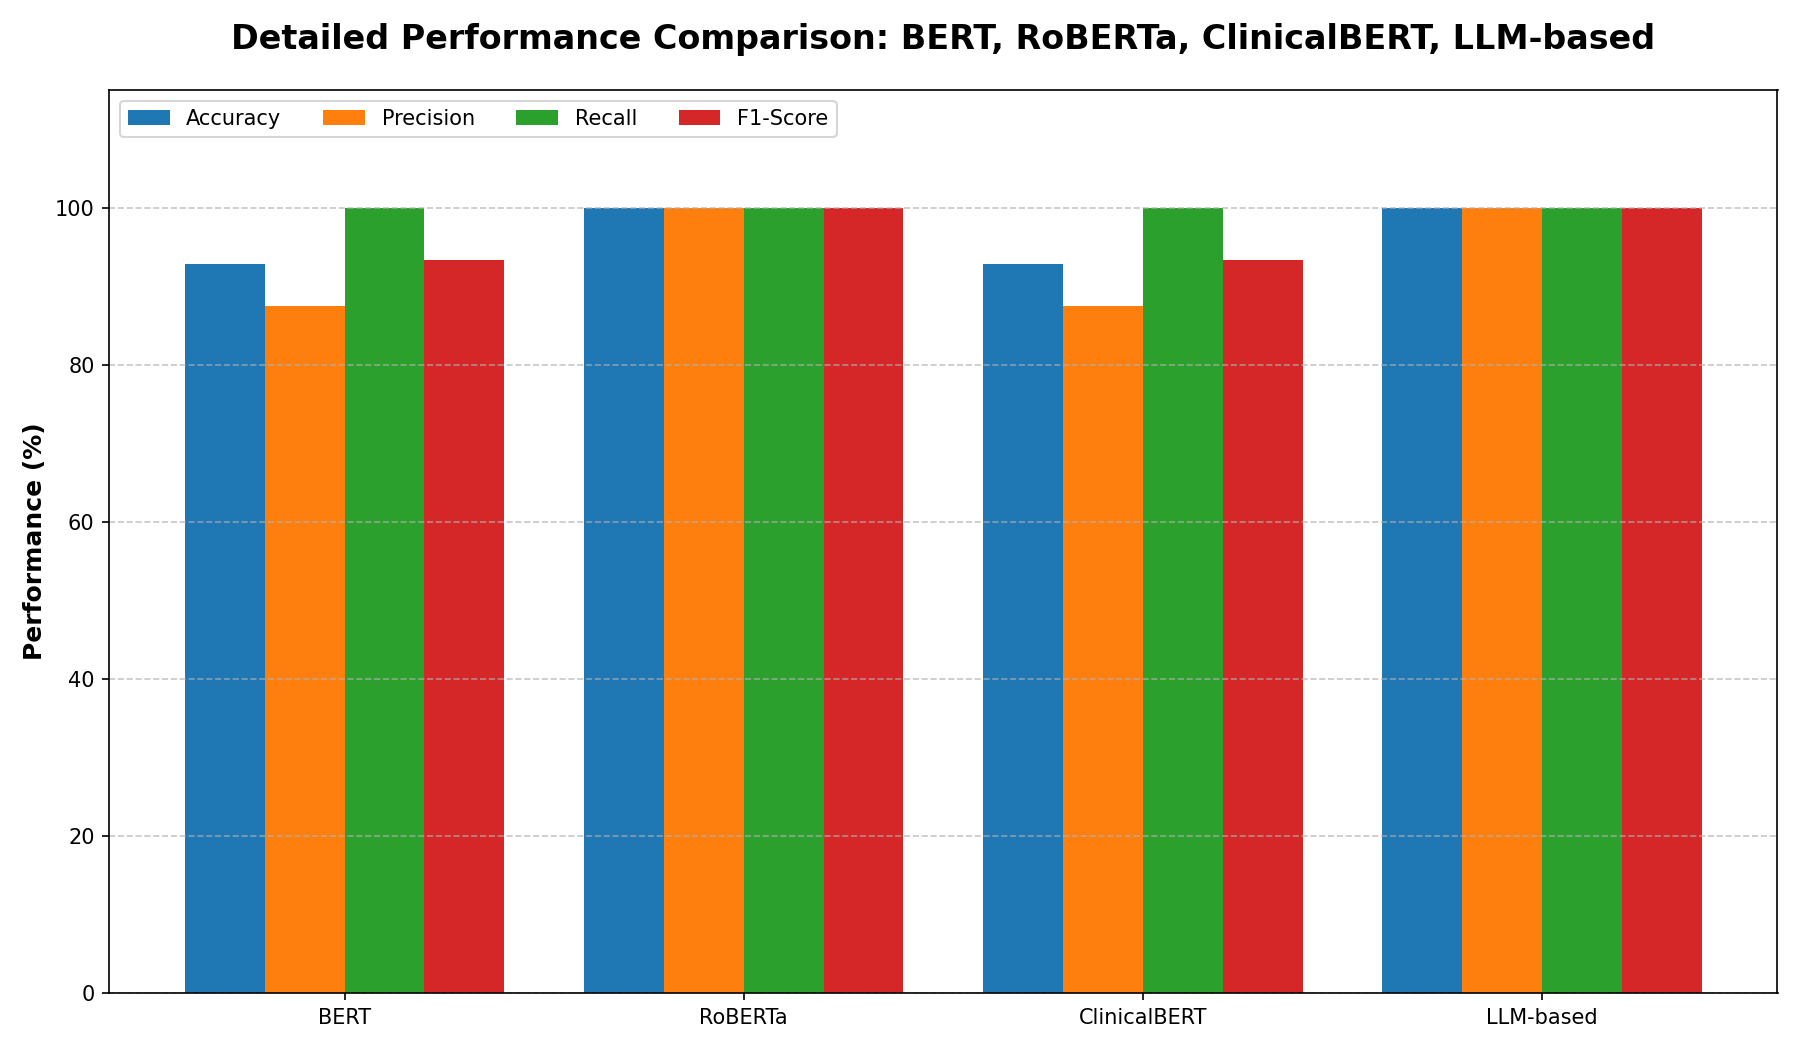
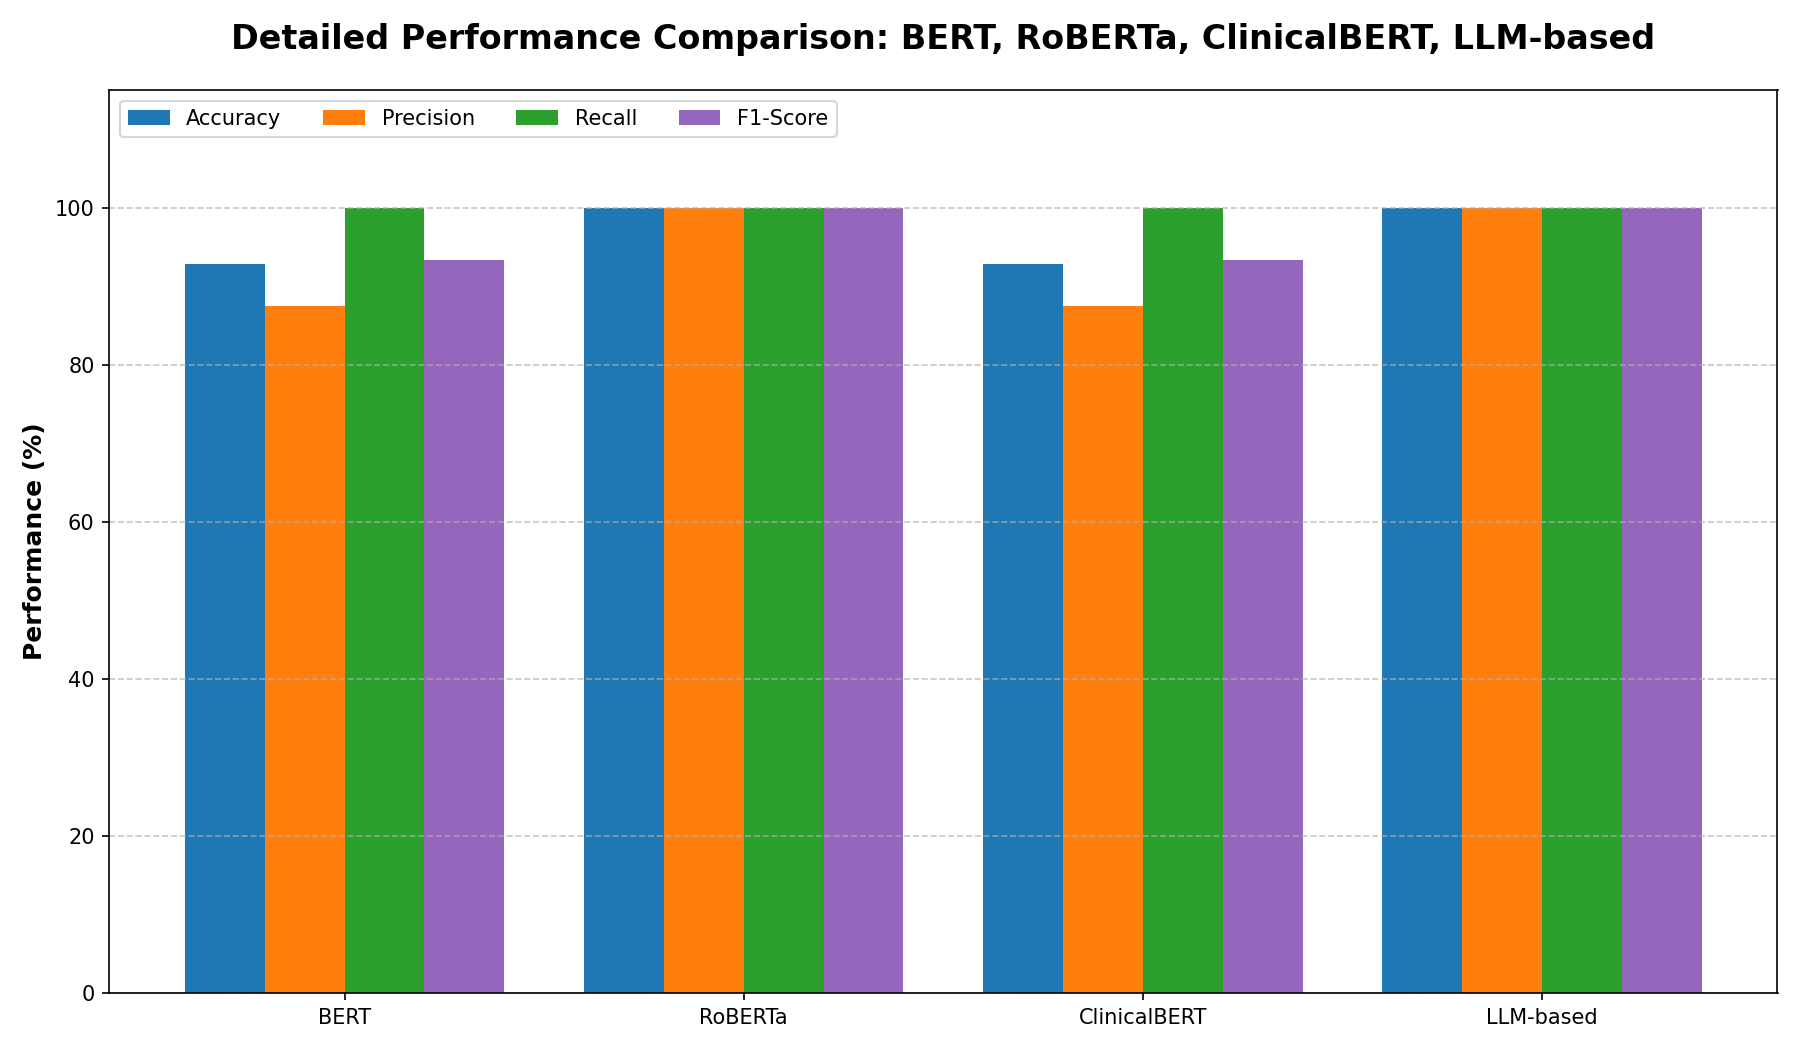
colors-changed

diff --git a/real_metrics_eval.py b/real_metrics_eval.py
@@ -141,9 +141,12 @@ def main():
 
     fig, ax = plt.subplots(figsize=(12, 7), dpi=150)
 
-    # Use a professional color palette
-    colors = ['#1f77b4', '#ff7f0e', '#2ca02c', '#d62728']
-
+    # Use a modern, light color palette
+    # colors = ['#A0C4FF', '#B9FBC0', '#FFCFD2', '#F1C0E8'] # Light Blue, Light Green, Light Red/Pink, Light Purple
+    colors = ['#1F77B4',  # Blue - Accuracy
+          '#FF7F0E',  # Orange - Precision
+          '#2CA02C',  # Green - Recall
+          '#9467BD']  # Purple - F1-Score
     for i, metric in enumerate(metrics):
         offset = width * multiplier
         values = [results[model][metric] for model in models]
